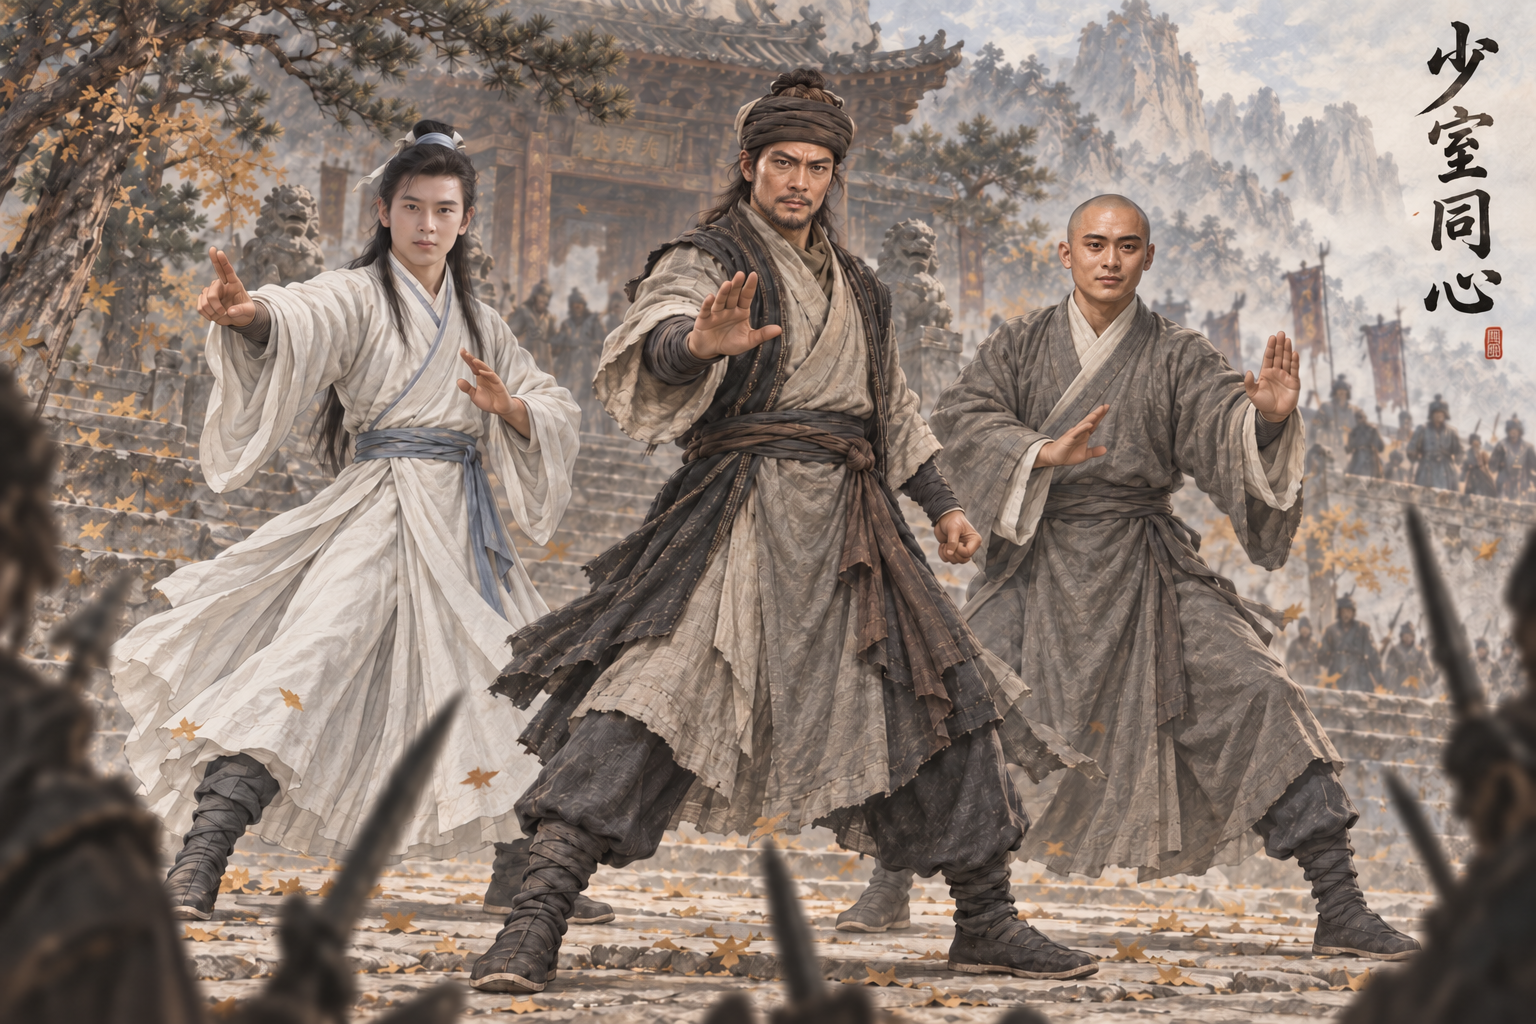
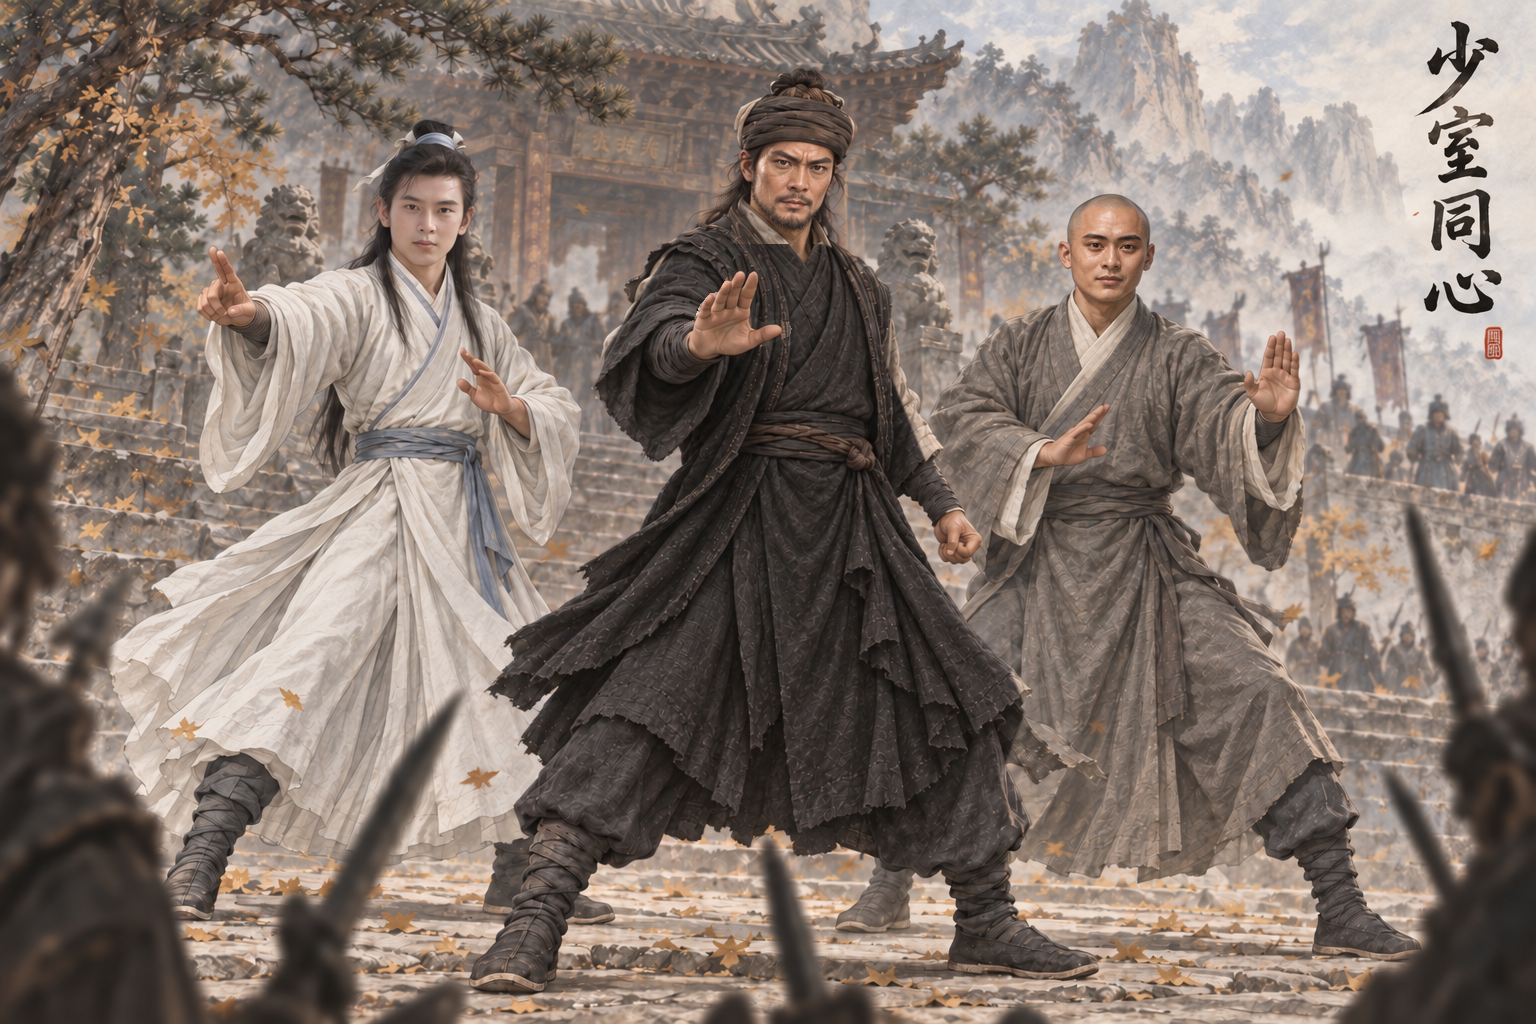
assets: AR-82 原著核对返修 少室三兄弟插图同步萧峰玄衣玄氅
原著摘句已同步提示词；已打开验图；蒙版外0像素变化。

Executed-By: Codex gpt-6.1-sol（AR-82）

Changed region(s): [[0.3125, 0.2188, 0.6875, 0.8438]]

diff --git a/assets/default/prompts/scenes/ch01-tianlong/cg_ch01_shaoshi_three_brothers.md b/assets/default/prompts/scenes/ch01-tianlong/cg_ch01_shaoshi_three_brothers.md
@@ -66,3 +66,7 @@ composite_job: cg_ch01_shaoshi_three_brothers.resume3
 排除项：不要文字、题字、字幕、水印、签名、Logo、边框或分镜格；不要未指定的多余人物（明确要求的远景群像除外）；不要幼态、儿童体态、性化处理、裸露或恋物特写；不要血腥特写、断肢、尸体堆叠或伤口细节；不要真人、演员、影视剧照复刻；不要多余肢体、手指错误、脸部融合、身份串脸、时代错装、现代物件、动漫风、摄影棚感、3D 塑料感。
 ```
 
+## 原著依据
+
+- 《天龙八部》第四十一回 燕云十八飞骑 奔腾如虎风烟举：“玄色薄毡大氅，里面玄色布衣”；https://www.xuges.com/wuxia/jinyong/tlbb/312.htm
+- AR-82 返修约束（本节优先于历史提示词）：只将正中萧峰的灰旧袍改为玄黑色布衣与玄黑薄毡大氅，大氅随原掌势同方向翻起；原动作和构图不变。萧峰脸、头巾、双手、裤脚与鞋不动，左侧段誉、右侧虚竹、前景人物和剑、题字印章以及所有背景逐像素保持。
